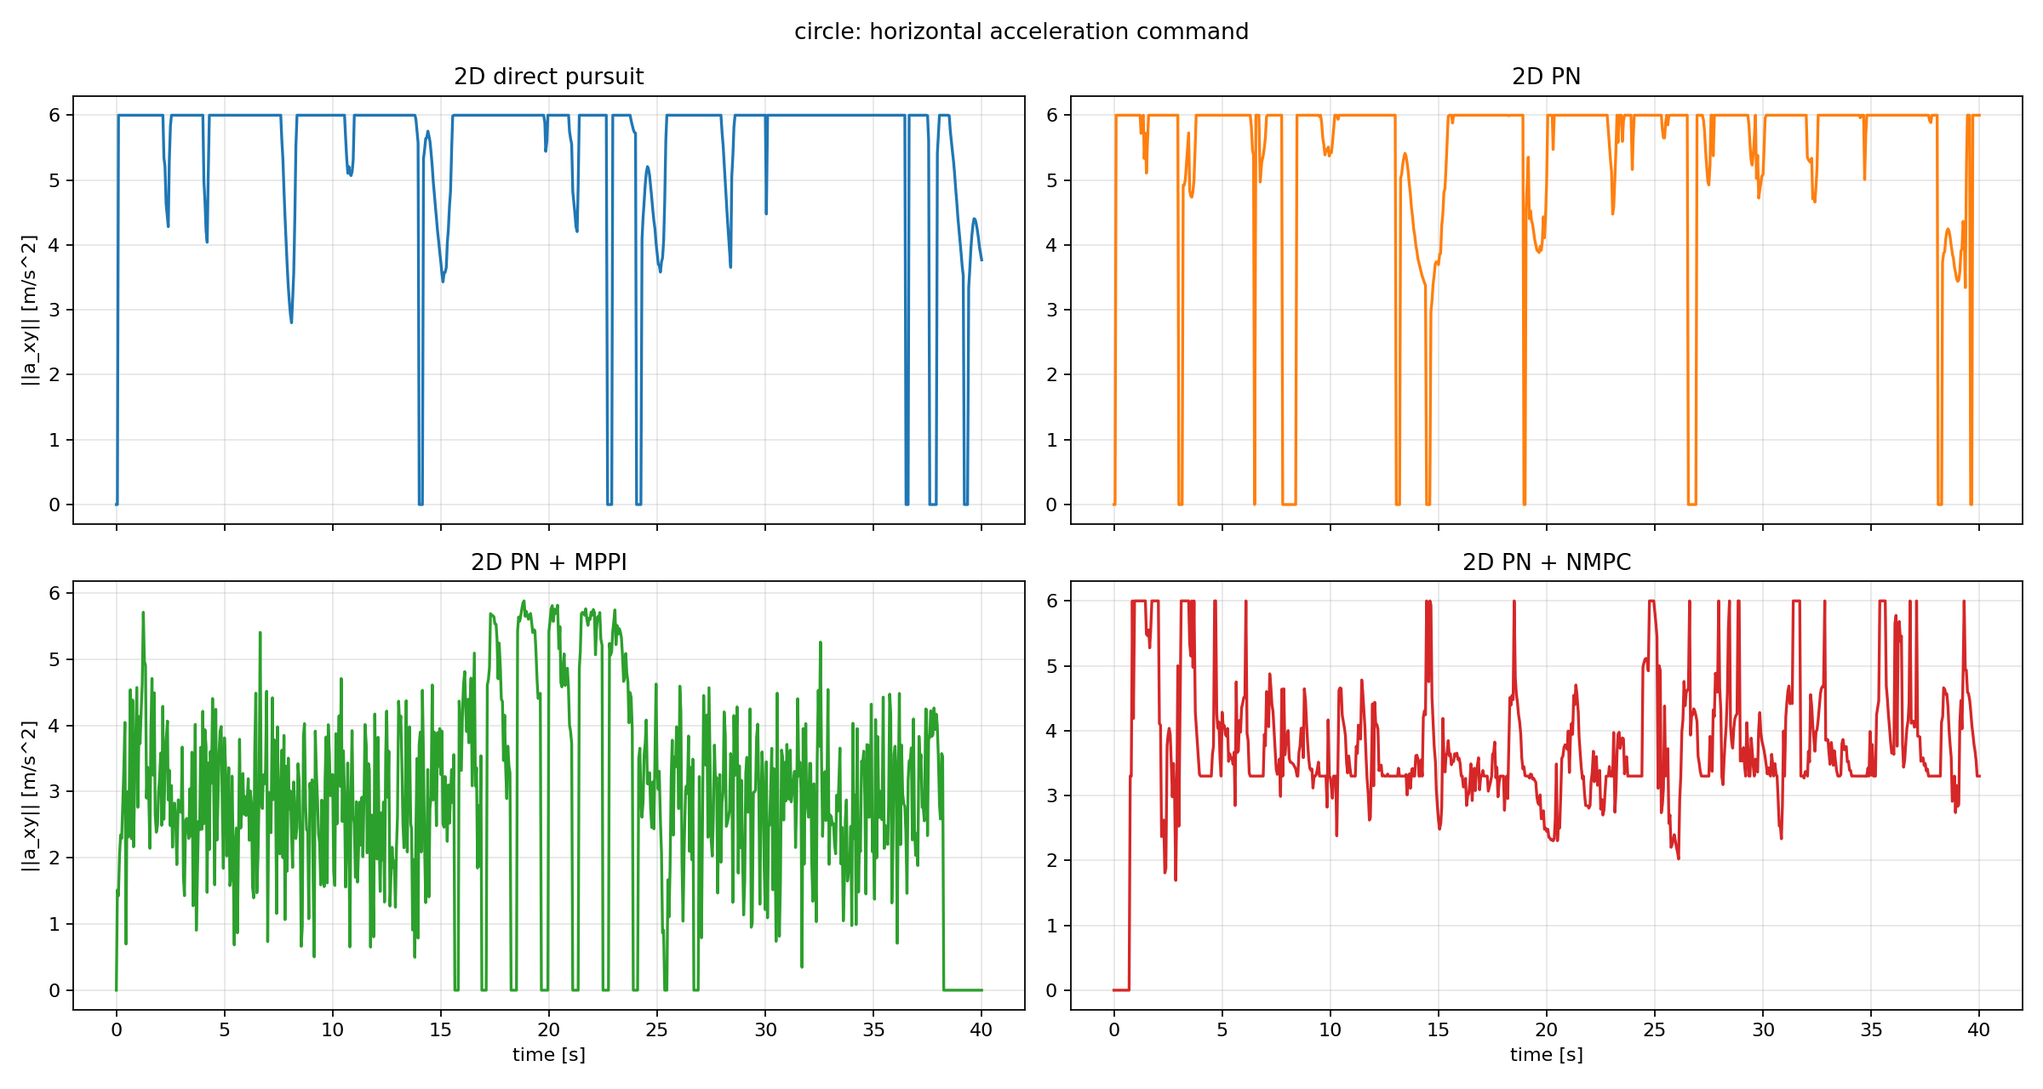
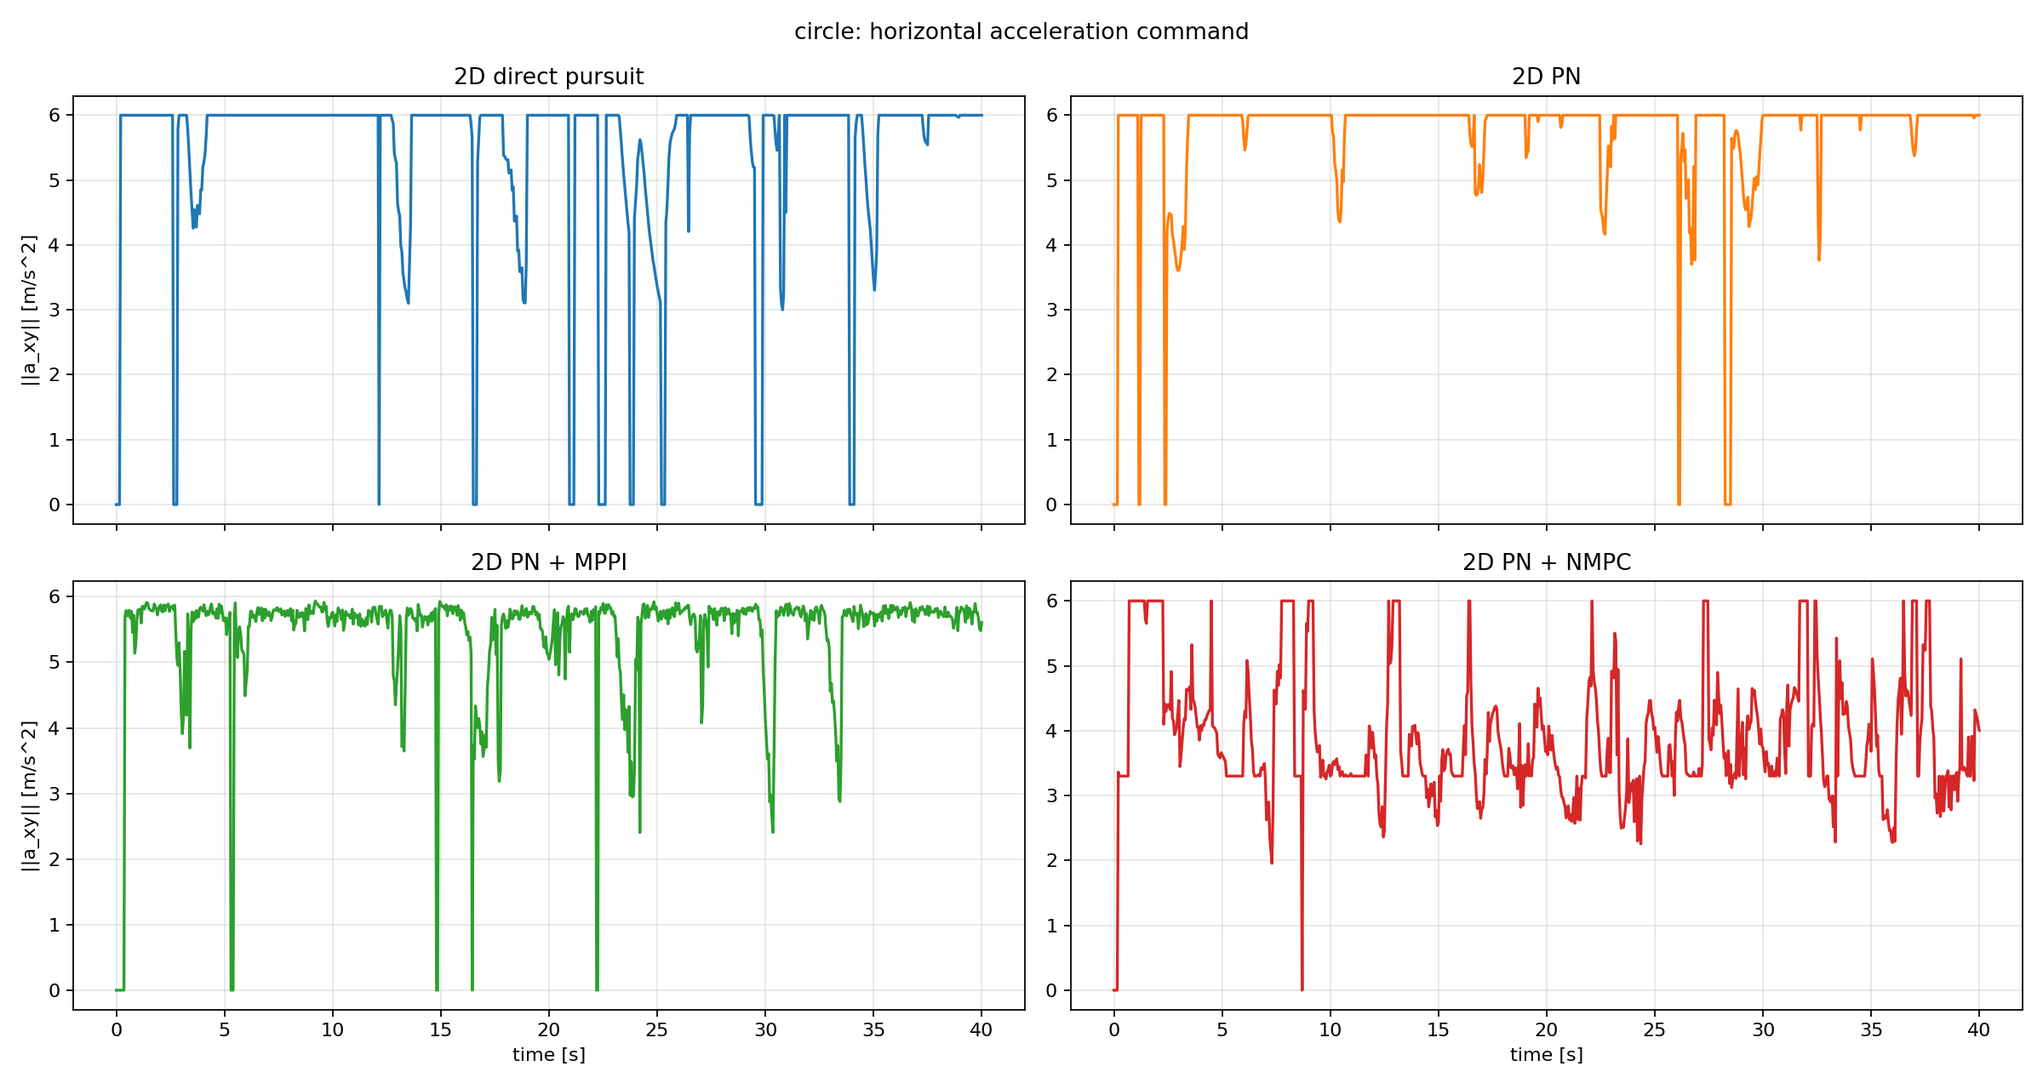
更新 7_2Dsimulation 文档：按四算法复测刷新离线与视觉闭环数据
- 离线第 10 节、视觉闭环第 12 节与视觉验证记录第 4 节改用 2026-10-04 重跑数据
- P6 复评为 6 项中 4 项未达；补充 EMPC FOV 四算法交叉对照与 spawn 原点差（约 1 m）说明
- docs/assets 离线与视觉闭环插图替换为重跑输出；README 日期、原点差与测试命令同步

diff --git a/7_2Dsimulation/docs/yolo_vision_closed_loop_results.md b/7_2Dsimulation/docs/yolo_vision_closed_loop_results.md
@@ -1,6 +1,6 @@
 # YOLO 视觉闭环实施与验证记录
 
-> 本文件记录实现状态、离线验证结果与 2026-09-30 的 Gazebo 闭环实测数据；阶段编号仅用于对应历史记录。
+> 本文件记录实现状态、离线验证结果与 2026-10-04 的 Gazebo 四算法闭环复测数据；2026-09-30 首次闭环结果摘要见第 4 节开头，2026-10-01/10-04 的调参与 FOV 验证见 4.3～4.4 节。
 > **未实测的项目不填写数字。**
 > 运行步骤与参数见 [模块 README](../README.md)，接口约定见 [视觉设计参考](vision_design.md)。
 
@@ -13,7 +13,7 @@
 | P3 | `tools/vision_offline_eval.py` 零样本评估（Recall@IoU、像素误差、conf 扫描） | 工具已实现并冒烟验证；2026-09-30 闭环未采数据集，未做门槛评估 |
 | P4 | `src/pythonsimulation2d/target_filter.py` α-β + coast/lost 状态机 | 已实现，17 项离线测试通过 |
 | P5 | `guidance_node_2d` 视觉接线、hold、记录列、`px4_utils` 宿主墙钟、绘图与 launch | 已实现，18 项 ROS 测试通过 |
-| P6 | Gazebo 闭环验收 | 已实测（2026-09-30）：跟踪段丢失达标，检测率与水平偏移未达门槛，见第 4 节 |
+| P6 | Gazebo 闭环验收 | 已实测（2026-09-30 首次、2026-10-04 复测）：检出率与水平偏移均未达门槛，复测中跟踪段丢失也未达标，见第 4 节 |
 | P7 | 域适配微调（仅 P3 不达标时） | 未触发 |
 | P8 | 文档与结果表 | 本文件 + README 已更新，P6 结果已记录 |
 
@@ -121,10 +121,14 @@ Gazebo 渲染域的零样本能力仍需 P3 数据采集判定。联调还发现
 `ros2 launch ... vision_source:=yolo target_source:=vision use_sim_time:=true` 启动三个节点；在无
 `/clock` 的环境下，三个节点分别在 2 s 后打印明确 FATAL 并干净退出（验证墙钟防呆可用，而不是静默悬停）。
 
-## 4. Gazebo 闭环实测（2026-09-30）
+## 4. Gazebo 闭环实测（2026-10-04 四算法复测）
+
+> 本节为 2026-10-04 的复测记录，取代 2026-09-30 的首次闭环记录（首次记录为 309 帧 / 256 有效量测、
+> 检出率 0.829，两机 spawn 差 2 m 使同源残差整体偏约 2 m）。两批均未通过 P6 验收，见 4.2。
 
 环境：PX4 v1.16 SITL + Gazebo 无阴影世界、`circle` 目标，`vision_source=yolo` + `target_source=vision`、
-`use_sim_time=true`，模型 `yolo26_baseline_detfly/weights/best.engine`；四种算法依次各跑 40 s。
+`use_sim_time=true`，模型 `yolo26_baseline_detfly/weights/best.engine`；四种算法依次各跑 40 s，
+两机 spawn 相差 1 m（x 方向原点差约 −1 m，见 4.1）。
 外部终端启动、参数与绘图命令见 [模块 README](../README.md#下视相机与视觉闭环)。
 
 原始记录（均在仓库 `outputs/`）：
@@ -136,49 +140,53 @@ gazebo2d_vision/yolo_detections.csv       # 逐处理帧检测，同上
 circle_vision/                            # 绘图与 metrics.csv
 ```
 
-时间口径：以 `gazebo_samples.csv` 的 0–40 s 为跟踪窗口，对应视觉记录的 elapsed 11.46–51.46 s
-（与引导节点记录的量测计数 256 对齐）；窗口外的起飞准备与收尾数据不计入。
+时间口径：以 `gazebo_samples.csv` 的 0–40 s 为跟踪窗口，对应视觉记录的 elapsed 14.38–54.38 s
+（与引导节点记录的量测计数 251 对齐）；窗口外的起飞准备与收尾数据不计入。整份记录（含窗口外）由
+`plot_vision_csv.py` 汇总为 437 处理帧、检出率 0.684，与下表差异来自窗口外目标不在相机视野内的时段。
 
 ### 4.1 视觉量测统计（跟踪窗口）
 
 | 指标 | 实测 |
 | --- | ---: |
-| 处理帧 / 有效量测 | 309 / 256 |
-| 帧级检出率 | 0.829 |
-| 拒绝原因 | 全部为 `no_drone_detection`（53 帧） |
-| 最长连续丢失 | 0.90 s |
-| 检测时延 p50 / p95 | 36 / 56 ms |
-| 检测分数 p50 / p95 | 0.774 / 0.839 |
-| 像素残差 p50 / p95（同源诊断） | 154 / 196 px |
-| 位置残差 p50 / p95（同源诊断） | 1.99 / 2.16 m |
-| 检测帧率（仿真时间） | ≈7.7 Hz |
-| 推理 / 端到端耗时 p50 | 2.8 ms / 11.5 ms |
+| 处理帧 / 有效量测 | 303 / 251 |
+| 帧级检出率 | 0.828 |
+| 拒绝原因 | 全部为 `no_drone_detection`（52 帧） |
+| 最长连续丢失 | 1.06 s |
+| 检测时延 p50 / p95 | 16 / 20 ms |
+| 检测分数 p50 / p95 | 0.749 / 0.834 |
+| 像素残差 p50 / p95（同源诊断） | 83.6 / 106.4 px |
+| 位置残差 p50 / p95（同源诊断） | 1.06 / 1.23 m |
+| 检测帧率（仿真时间） | ≈7.6 Hz |
+| 推理 / 端到端耗时 p50 | 2.03 ms / 7.67 ms |
 
-像素与位置残差由 `vision_adapter` 用目标 odometry 参考计算，与量测同源；本次记录中残差呈近似常值
-`(-2.0, +0.1) m`（标准差 < 0.15 m），且不随时间与 yaw 变化，与像素噪声的量级不符。这来自两机本地系的
-常值偏移：本次运行两机 spawn 为追踪机 `49,0`、目标机 `47,0`（x 相差 2 m），残差 x 分量与 spawn 差
-（`47 - 49 = -2 m`）一致，符合 [视觉设计参考](vision_design.md) 1.1 节提示的本地原点问题；视觉量测在
-追踪机本地系、目标 odometry 在目标机本地系，直接相减就会得到这个常值差。**若要用 P6 门槛判定，应先让
-两机同点 spawn 或做原点转换后重跑；在此之前，所有“vs odom”口径的误差与距离都不能当作量测精度。**
+像素与位置残差由 `vision_adapter` 用目标 odometry 参考计算，与量测同源；本次记录中残差近似常值
+`(-1.04, -0.01) m`（标准差 0.12～0.14 m），与像素噪声的量级不符。这来自两机本地系的常值偏移：
+本次运行两机 spawn 相差 1 m，残差 x 分量与 spawn 差一致，符合 [视觉设计参考](vision_design.md) 1.1 节
+提示的本地原点问题；视觉量测在追踪机本地系、目标 odometry 在目标机本地系，直接相减就会得到这个常值差。
+**若要用 P6 门槛判定，应先让两机同点 spawn 或做原点转换后重跑；在此之前，所有“vs odom”口径的误差与
+距离都不能当作量测精度。**
 
 ### 4.2 P6 验收
 
 | 指标 | 目标 | 实测 | 结论 |
 | --- | --- | --- | --- |
-| `/camera/detections` 帧率 | ≈ `process_hz`（10 Hz），worker 重启 0 次 | ≈7.7 Hz（仿真时间）；重启次数未记录进 CSV | 未达 |
-| 闭环内检测率（相机视野内） | ≥ 0.9 | 0.829（256/309） | 未达 |
-| 水平偏移 p95（追踪机 vs 目标 XY） | ≤ 2.0 m | 估计口径：`basic/pn` 3.00/3.46 m、`pn_mppi/pn_nmpc` 9.00/4.78 m；目标 odometry 口径整体再大约 2 m（见 4.1） | 未达 |
-| 跟踪段丢失（`lost`） | 首次进入跟踪后无 > 1 s 连续丢失 | 最长 0.90 s | 达标 |
+| `/camera/detections` 帧率 | ≈ `process_hz`（10 Hz），worker 重启 0 次 | ≈7.6 Hz（仿真时间）；重启次数未记录进 CSV | 未达 |
+| 闭环内检测率（相机视野内） | ≥ 0.9 | 0.828（251/303） | 未达 |
+| 水平偏移 p95（追踪机 vs 目标 XY） | ≤ 2.0 m | 估计口径：`basic/pn` 5.43/2.53 m、`pn_mppi/pn_nmpc` 2.57/1.54 m；目标 odometry 口径 7.02/3.36/4.12/2.04 m（含约 1 m 原点差，见 4.1） | 未达 |
+| 跟踪段丢失（`lost`） | 首次进入跟踪后无 > 1 s 连续丢失 | 最长 1.06 s（1 次） | 未达 |
 | 记录完整性 | 4 类 CSV + 图 + 指标齐全 | `vision_samples.csv`、`yolo_detections.csv`、4×`gazebo_samples.csv`、图与 `metrics.csv` 齐全；未采数据集/标注 | 齐全 |
 | 运行时长 | 完成 `sim_time`，无异常退出 | 0–40 s 完整记录 | 达标 |
 
-结论：本次 P6 **未通过**。
+结论：本次 P6 **未通过**（6 项中 4 项未达）。
 
-- 帧级检出率 0.829 低于 0.9，53 帧拒绝全部为 `no_drone_detection`；其中可能混有目标短暂离开
+- 帧级检出率 0.828 低于 0.9，52 帧拒绝全部为 `no_drone_detection`；其中可能混有目标短暂离开
   相机足印的时段，建议用 `camera_recorder` 画面复核后再区分“模型漏检”与“目标不在视野”。
-- 水平偏移按控制器实际使用的估计口径也在 3.0～9.0 m，四算法均未达到 2.0 m；`pn_mppi`/`pn_nmpc`
-  在该次运行中没有回到 1.5 m 捕获半径。
-- 若要按 P6 门槛给出判定，需先对齐两机本地原点（同点 spawn 或原点转换）后重跑；本次记录可作为视觉链路连通性验证。
+- 水平偏移按控制器实际使用的估计口径，只有 `pn_nmpc` 的 p95（1.54 m）在 2.0 m 以内，`basic` 达
+  5.43 m；odometry 口径还叠加约 1 m 的两机原点差（见 4.1），`basic` 达 7.02 m。
+- 跟踪段出现 1 次 1.06 s 的连续丢失，超过 `vision_loss_s = 1.0 s`，估计器短暂进入 hold，“无 >1 s
+  连续丢失”不再达标。
+- 若要按 P6 门槛给出判定，需先对齐两机本地原点（同点 spawn 或原点转换）后重跑；本批记录可作为
+  视觉链路与四算法闭环的验证。
 
 ### 4.3 EMPC 参数调整与 YOLO 闭环复核（2026-10-01）
 
@@ -204,11 +212,11 @@ circle_vision/                            # 绘图与 metrics.csv
 
 结论：调整后的 EMPC 在两种起始方式和重复运行下最大水平误差 2.4～2.8 m，全程满足 ≤ 5 m；默认参数只在"悬停就位"这一种起始方式下达标。代价是控制更激进、更贴近 PN 趋势（`pn_nmpc` 的 yaw rate mean 不再是四算法中最低），离线捕获时间和控制能量反而下降，见 [算法说明](2d_simulation_guidance_overview.md) 第 10 节。原始记录在 `outputs/tuning_runs/`（生成物，不入库）。
 
-同一天还跑了一轮**四算法各 40 s 的视觉闭环对照**（调参后参数，`target_source=vision`）：EMPC 最大水平距离 3.06 m、平均 1.30 m，均为四者最低；MPPI 控制能量与 yaw rate 最低但最大距离 13.59 m。四算法的导引侧指标、统计口径与原点偏置说明见 [算法说明](2d_simulation_guidance_overview.md) 12.1～12.2 节。
+同一天还跑了一轮**四算法各 40 s 的视觉闭环对照**（调参后参数，`target_source=vision`）：EMPC 最大水平距离 3.06 m、平均 1.30 m，均为四者最低；MPPI 控制能量与 yaw rate 最低但最大距离 13.59 m。该批数据已被 2026-10-04 四算法复测取代，当前口径见第 4 节与 [算法说明](2d_simulation_guidance_overview.md) 12.1～12.2 节。
 
 ### 4.4 EMPC 画面保持（FOV）惩罚受控对比（2026-10-04）
 
-EMPC 原代价函数只约束水平距离，目标接近画幅边缘时没有主动回中梯度。2026-10-04 加入按标称下视相机投影的画面偏移惩罚（`nmpc_w_fov=120`、`fov_soft_margin=0.5`、`fov_violation_cap=3.0`，见 [算法说明](2d_simulation_guidance_overview.md) 7.4.1 节）后，在同一套 Gazebo + YOLO 闭环下做了受控前后对比：circle、40 s、`pn_nmpc`、无阴影世界、两机 spawn `48,0` / `47,0`，两轮使用同一启动命令与同一 PX4/Gazebo 实例，中间只切换 `nmpc_w_fov`；原始记录分别在 `outputs/gazebo2d_vision_runs_nofov/` 与 `outputs/gazebo2d_vision_runs_fov/`。
+EMPC 原代价函数只约束水平距离，目标接近画幅边缘时没有主动回中梯度。2026-10-04 加入按标称下视相机投影的画面偏移惩罚（`nmpc_w_fov=120`、`fov_soft_margin=0.5`、`fov_violation_cap=3.0`，见 [算法说明](2d_simulation_guidance_overview.md) 7.4.1 节）后，在同一套 Gazebo + YOLO 闭环下做了受控前后对比：circle、40 s、`pn_nmpc`、无阴影世界、两机 spawn `48,0` / `47,0`，两轮使用同一启动命令与同一 PX4/Gazebo 实例，中间只切换 `nmpc_w_fov`；原始记录分别在 `outputs/gazebo2d_vision_runs_nofov/` 与 `outputs/gazebo2d_vision_runs_fov/`（已不在当前 `outputs/` 中）。
 
 | 指标 | w=0（无 FOV） | w=120（有 FOV） |
 | --- | ---: | ---: |
@@ -220,18 +228,18 @@ EMPC 原代价函数只约束水平距离，目标接近画幅边缘时没有主
 | 估计器可用（tracking/coast）占比 | 0.998 | 0.993 |
 | 最长量测间隔（0–40 s） | 1.00 s | 0.90 s |
 
-结论：两轮追踪精度基本一致（平均距离差 2%），画面偏移都远小于安全边界 0.85——circle 默认机动下目标本来就不会压边，FOV 项是"压边保险"而不是主控制器；有 FOV 轮控制能量 +5.9%、yaw rate mean 低 13.5%，差异量与单次跑批的正常波动相当。惩罚的有效性由反事实回放确认：把权重置 0 重放同一批状态时，20/799 个周期选择了不同候选（最大加速度差 2.6 m/s²），且都出现在预测偏移超过软边界的周期，即它在"即将压边"时提前回中。作为对照，同批 2026-10-01 记录中未加 FOV 项的 `pn_mppi` 真值偏移 max = 1.83、42.5% 的时间超过 0.85；本轮只对 `pn_nmpc` 生效。完整离线对照与解读见 [算法说明](2d_simulation_guidance_overview.md) 12.5 节。
+结论：两轮追踪精度基本一致（平均距离差 2%），画面偏移都远小于安全边界 0.85——在 EMPC 的跟踪误差范围内 circle 默认机动不会让目标压边，FOV 项是"压边保险"而不是主控制器；有 FOV 轮控制能量 +5.9%、yaw rate mean 低 13.5%，差异量与单次跑批的正常波动相当。惩罚的有效性由反事实回放确认：把权重置 0 重放同一批状态时，20/799 个周期选择了不同候选（最大加速度差 2.6 m/s²），且都出现在预测偏移超过软边界的周期，即它在"即将压边"时提前回中。作为对照，同批 2026-10-01 记录中未加 FOV 项的 `pn_mppi` 真值偏移 max = 1.83、42.5% 的时间超过 0.85；本轮只对 `pn_nmpc` 生效。完整离线对照与解读见 [算法说明](2d_simulation_guidance_overview.md) 12.5 节。
 
 ## 5. 已知边界与风险
 
 - **零样本域差异是最大风险**：Det-Fly 是真实天空背景侧视图，Gazebo 是俯视渲染；P3 门槛不达标时再评估是否需要域适配微调。
 - `yolo_model_path` 必须是完整文件路径；worker 启动失败（如路径不存在）会先以 `[worker]` 前缀转发 worker stderr，再按 `worker_restart_limit` 重试并停止检测，不要复制文档中的路径占位符。
-- 量测精度设计预期为厘米级（像素噪声 + 0.15 m 目标高度平面假设 + 毫秒级同步残差），但 2026-09-30 实测的
-  同源残差呈约 2 m 的常值偏差（见 4.1），指向两机本地原点/坐标对齐问题而非像素噪声；对齐前不要引用任何
+- 量测精度设计预期为厘米级（像素噪声 + 0.15 m 目标高度平面假设 + 毫秒级同步残差），但 2026-10-04 复测的
+  同源残差呈约 1 m 的常值偏差（见 4.1），指向两机本地原点/坐标对齐问题而非像素噪声；对齐前不要引用任何
   误差数字作为精度指标。`pixel_error_vs_truth_px` / `position_error_vs_odom_m` 与量测同源，**不是独立标定**。
 - **两机本地原点不一致会让跨机指标带常值偏差**：`vision_adapter` 的“vs odom”诊断列和
-  `gazebo_samples.csv` 的距离列只对原点一致的两机成立；两机在不同点 spawn（本记录 `49,0` / `47,0`）
-  会产生约 2 m 的常值 xy 偏差，需要两机同点 spawn 或在 ROS 边界显式转换，见 [视觉设计参考](vision_design.md) 1.1 节。
+  `gazebo_samples.csv` 的距离列只对原点一致的两机成立；两机在不同点 spawn（本批相差 1 m）
+  会产生约 1 m 的常值 xy 偏差，需要两机同点 spawn 或在 ROS 边界显式转换，见 [视觉设计参考](vision_design.md) 1.1 节。
 - 正下方视线接近奇异（`r_norm→0`），`pn_guidance()` 在零偏移附近可能抖动；先用 `pn_mppi`/`pn_nmpc` 的平滑项复测，
   必要时记录“最小保持间距”调参，不新增算法。
 - PX4 SITL 的 `hrt` 由 Gazebo 时钟驱动（`GZBridge::clockCallback`），但本链路不依赖该事实：位姿缓存使用接收时的

diff --git a/7_2Dsimulation/README.md b/7_2Dsimulation/README.md
@@ -16,7 +16,7 @@
 - `outputs/`：默认仿真输出目录（生成物不入库）。
 - [算法说明](docs/2d_simulation_guidance_overview.md)：算法原理与已有结果。
 - [视觉设计参考](docs/vision_design.md)：相机几何、进程协议与消息约定。
-- [视觉验证记录](docs/yolo_vision_closed_loop_results.md)：离线验证结果与 2026-09-30 闭环实测记录。
+- [视觉验证记录](docs/yolo_vision_closed_loop_results.md)：离线验证结果与 2026-10-04 闭环复测记录。
 
 ## 纯 Python 仿真
 
@@ -230,7 +230,7 @@ PX4_GZ_STANDALONE=1 PX4_SYS_AUTOSTART=4001 PX4_GZ_MODEL_POSE="47,0,0,0,0,0" PX4_
 说明：
 
 - Gazebo 由终端 3 手动启动，PX4 两机都只连接：实例 0 自动检测已运行的世界，实例 1 带 `PX4_GZ_STANDALONE=1`；不会再起 server 造成冲突。
-- 两机 spawn 的 XY 决定各自 PX4 本地原点：示例 `48,0`（追踪机）/ `47,0`（目标机），x 相差 1 m，两机 odometry 的本地系也就相差这个常值。视觉闭环在追踪机本地系内工作、不受影响；但跨机比较的列（`vision_samples.csv` 的 `position_error_vs_odom_m`、`gazebo_samples.csv` 的 `distance_xy`/`target_x,y`）会整体带上该偏差（2026-09-30 实测 ≈ 2 m，见 [视觉验证记录](docs/yolo_vision_closed_loop_results.md) 4.1），不要据此判读量测精度。需要无偏的跨机指标时，应让两机同点 spawn，或在 ROS 边界显式做原点转换。
+- 两机 spawn 的 XY 决定各自 PX4 本地原点：示例 `48,0`（追踪机）/ `47,0`（目标机），x 相差 1 m，两机 odometry 的本地系也就相差这个常值。视觉闭环在追踪机本地系内工作、不受影响；但跨机比较的列（`vision_samples.csv` 的 `position_error_vs_odom_m`、`gazebo_samples.csv` 的 `distance_xy`/`target_x,y`）会整体带上该偏差（2026-10-04 复测 ≈ 1 m，见 [视觉验证记录](docs/yolo_vision_closed_loop_results.md) 4.1），不要据此判读量测精度。需要无偏的跨机指标时，应让两机同点 spawn，或在 ROS 边界显式做原点转换。
 - `target_source=vision` 时追踪机准备阶段会自动飞至场景起点上方（circle 为 `(47, 0)`，即 `circle_center + (12, 0)`，见 `src/pythonsimulation2d/config.py`），目标机同时被送往同一起点（各自按本地系解释），保证开始跟踪时目标在相机视野内；spawn 错开带来的本地系偏差见上一条。
 - airframe 自带 `PX4_GZ_WORLD=default`，所以 `src/gazebosimulation2d/config/camera_bridge.yaml` 里的 `/world/default/model/x500_mono_cam_down_0/...` 话题名成立；**不要再额外传 `PX4_SIM_MODEL`**（例如 `PX4_SIM_MODEL=gz_x500` 会把 4014 的相机模型覆盖成 `x500`，桥接就收不到图像）。
 - 新环境首次运行相机机型前需 `make px4_sitl gz_x500_mono_cam_down`（本机 SITL 已编译）。
@@ -447,6 +447,7 @@ worker 离线自检（不需要 ROS/Gazebo，坐标应与 `ultralytics-main/pred
 ```bash
 uv run python tests/test_camera_geometry.py
 uv run python tests/test_target_filter.py
+uv run python tests/test_fov_penalty.py
 ```
 
 ROS 节点测试（假 worker，不需要 torch/GPU）：
